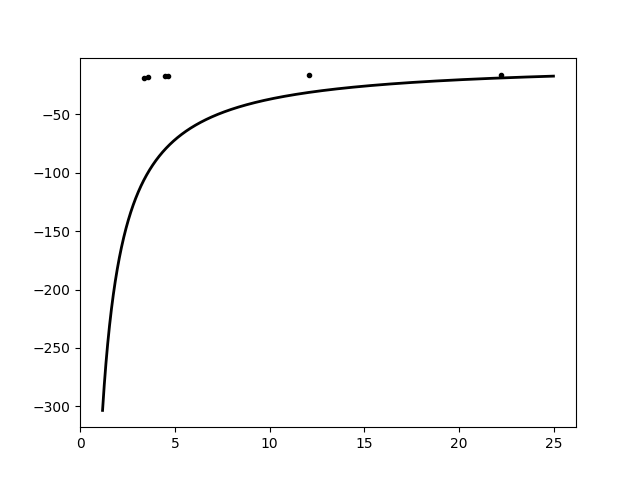
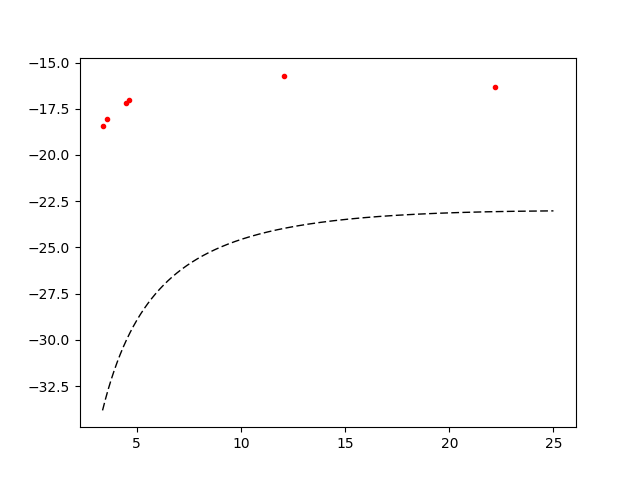
better plots

diff --git a/mcmc_test/mcmc_clone_emceee.py b/mcmc_test/mcmc_clone_emceee.py
@@ -125,10 +125,22 @@ print("""MCMC result:
 
 # ------------------------------------------------------------------------------
 # Ploting MCMC
-plotting_wavelength = np.arange(0.01, 25.0, 0.01)
+plotting_wavelength = np.arange(x[0], 25.0, 0.01)
 
-# Plot the initial guess result.
-print(thetachain)
-plt.errorbar(x, y, yerr=yerr, fmt=".k")
-plt.plot(plotting_wavelength, model(plotting_wavelength,thetachain[0][0],thetachain[0][1]), "k", lw=2)
+# Plot the initial guess results.
+plt.errorbar(x, y, yerr=yerr, fmt=".r")
+plt.plot(plotting_wavelength, model(plotting_wavelength,thetachain[0][0],thetachain[0][1]), "--k", lw=1)
 plt.savefig("Initial Guess Result.png")
+plt.close()
+
+# Plot the MCMC results.
+plt.errorbar(x, y, yerr=yerr,fmt='.r',ms="6")
+plt.plot(plotting_wavelength, model(plotting_wavelength,T_mcmc[0],logfac_mcmc[0]), "--k", lw=1)
+plt.savefig("MCMC results.png")
+plt.close()
+
+
+plt.scatter(thetachain[:,0], thetachain[:,1], cmap='coolwarm')
+plt.xlabel('Temperature [K]')
+plt.ylabel('log10(factor)')
+plt.savefig("Temp vs logfactor")
